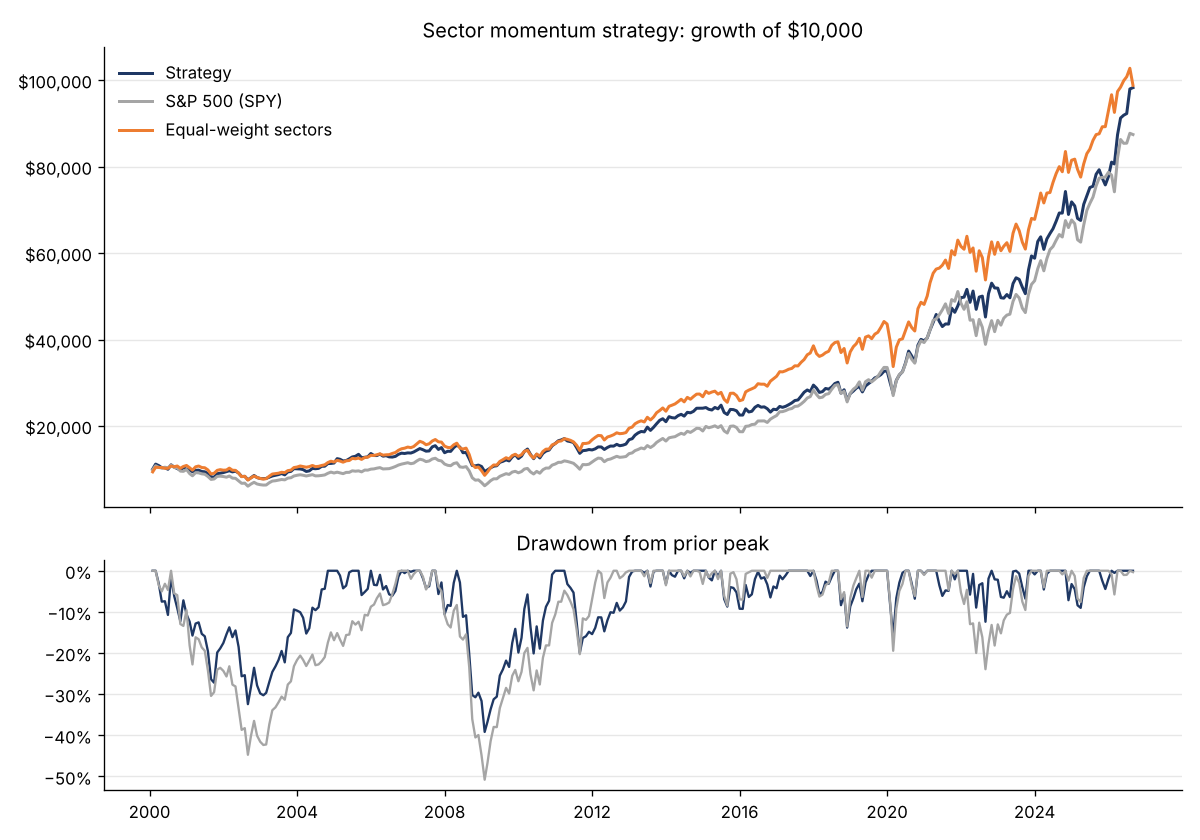
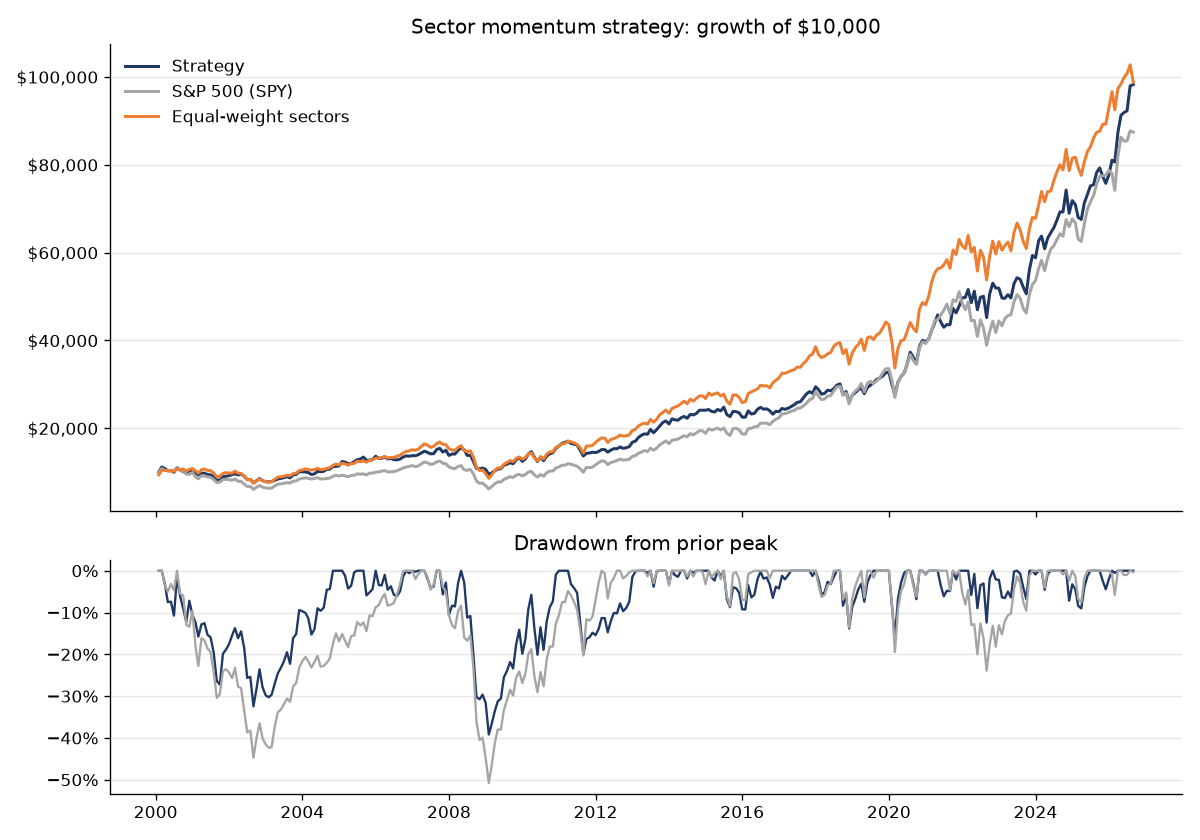
Monthly signal update

diff --git a/backtest_results.md b/backtest_results.md
@@ -6,4 +6,4 @@
 | Volatility           | 14.7%      | 15.1%           | 14.7%                  |
 | Sharpe ratio         | 0.52       | 0.48            | 0.53                   |
 | Max drawdown         | -39.2%     | -50.8%          | -49.1%                 |
-| $10,000 grows to     | $98,271    | $87,422         | $98,800                |
+| $10,000 grows to     | $98,272    | $87,423         | $98,798                |
